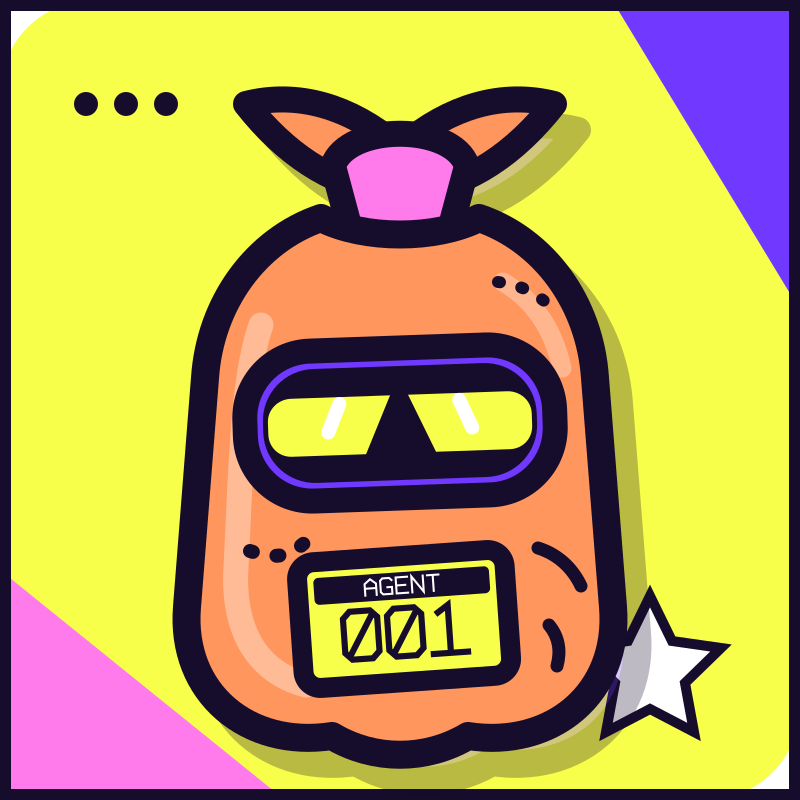
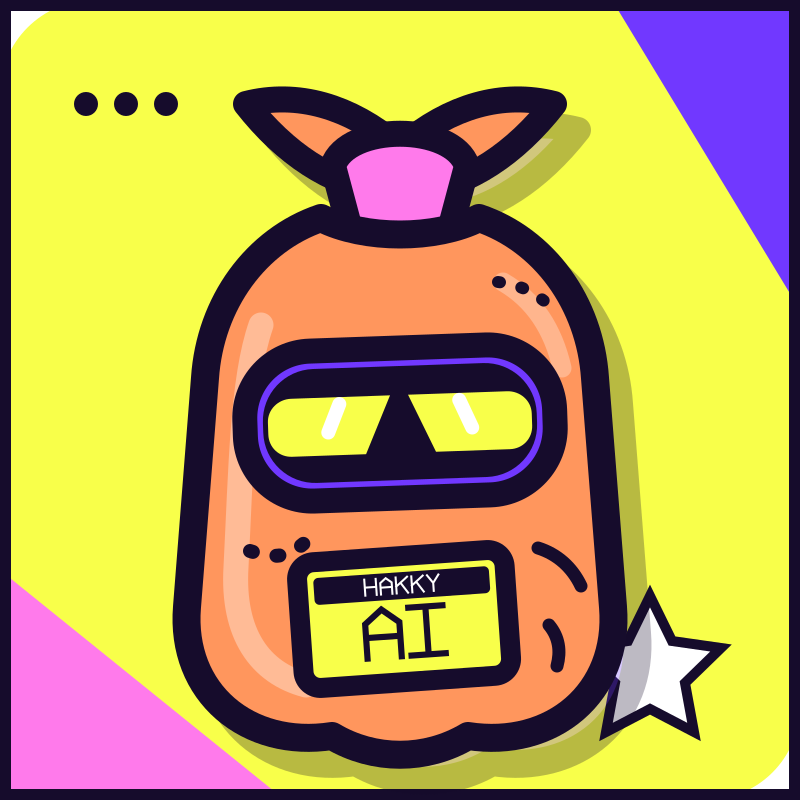
brand: regenerate HakkyAgent launch assets

Changed region(s): [[0.4062, 0.7188, 0.5938, 0.8438]]

diff --git a/web/index.html b/web/index.html
@@ -36,7 +36,7 @@
           <a class="button button-alt" href="#verify">Verify the launch</a>
         </div>
       </div>
-      <img src="./assets/sack-sentinel.svg" alt="HakkyAgent, the orange HAKKY proof agent" width="1024" height="1024">
+      <img src="./assets/hakkyagent.svg" alt="HakkyAgent, the orange HAKKY proof agent" width="1024" height="1024">
       <p class="status" data-launch-status role="alert">PRE-LAUNCH: No official mint address exists yet — ignore impostors.</p>
     </section>
 
